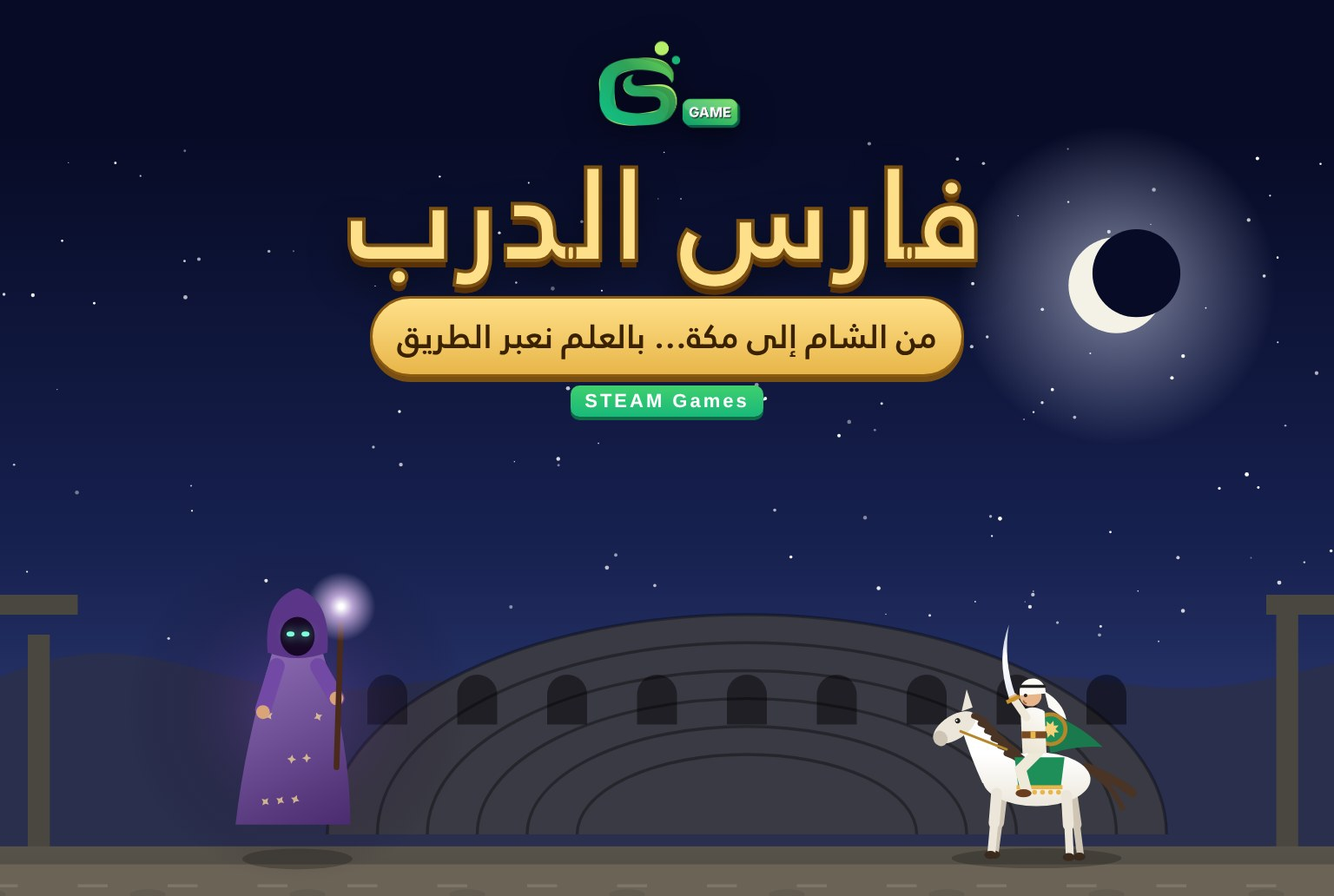
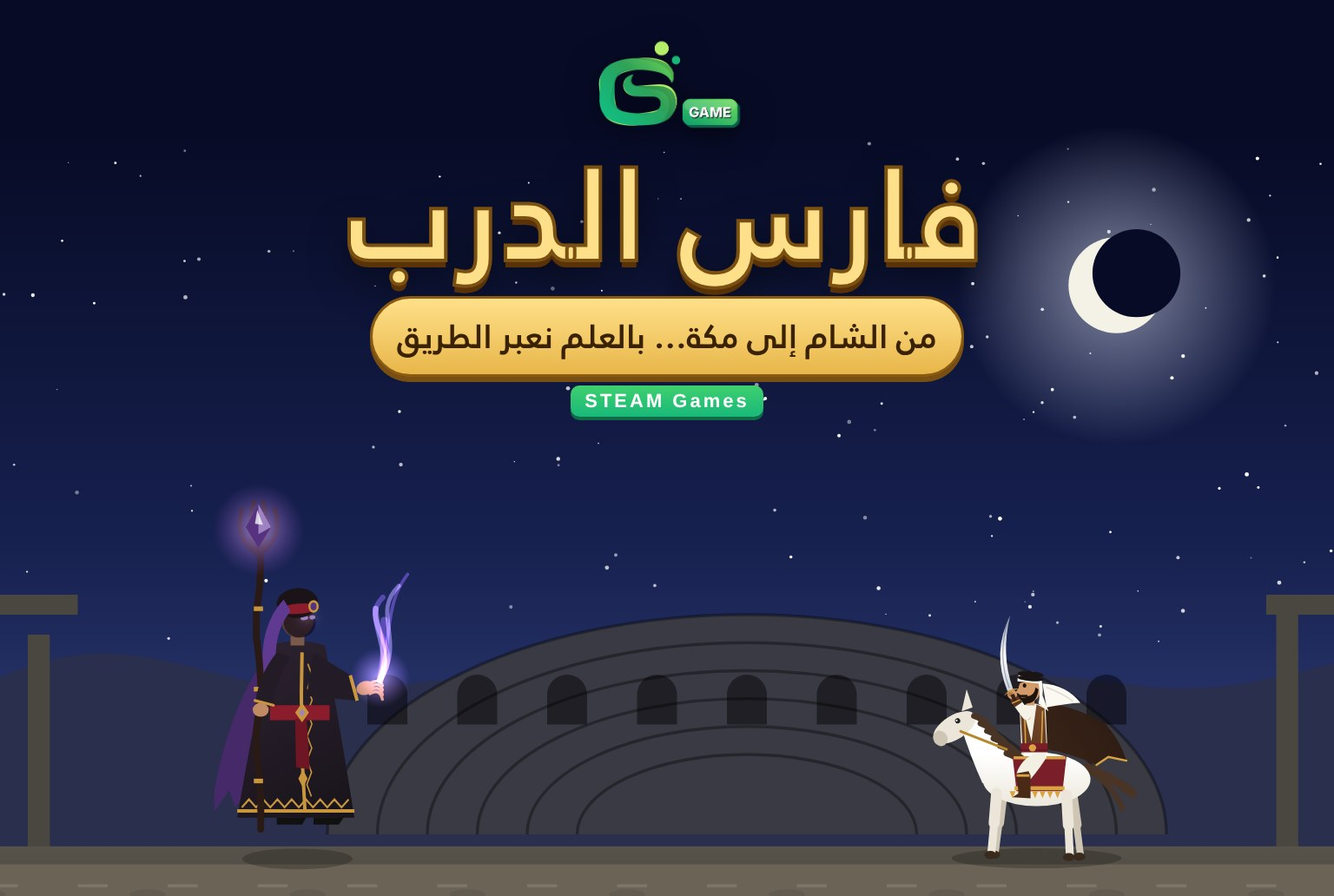
Redesign Knight of the Path characters closer to the reference artwork
- Knight: white thobe, brown leather vest with gold trim and brooch,
  flowing dark cape, maroon sash, white shemagh with black agal, short
  beard, leather bracer and a gold-guarded scimitar; maroon saddle cloth.
- Elder, scholar, merchant and Bedouin share a new bisht-wearing figure
  with gold-trimmed edges, beard, headwear variants, an open-palm
  gesture and a cane, book, scale or staff.
- Sorcerers: black robe with gold zig-zag borders, crimson sash with a
  gem pendant, coloured cape lining, jewelled turban over a shadowed
  face with glowing eyes, twisted staff with a glowing crystal in thorny
  prongs, and animated magic smoke from the casting hand.
- Cover image regenerated with the new characters.

Claude-Session: https://claude.ai/code/session_01FAZbWhTQXVqNkMx2ctwh7t

Changed region(s): [[0.1562, 0.5581, 0.3125, 0.9302], [0.75, 0.7132, 0.8438, 0.8992]]

diff --git a/steam-games/knight-path/art.js b/steam-games/knight-path/art.js
@@ -389,56 +389,86 @@
     // الأرجل القريبة
     leg(g, -30, -58 + bob, la(0, 0.6) - 0.1, Math.abs(la(0.6, 0.9)), 30, 30, 11, 8, horse);
     leg(g, 40, -60 + bob, la(Math.PI + 0.5, 0.7) + 0.1, -Math.abs(la(Math.PI + 1.1, 0.9)) * -1, 30, 30, 11, 8, horse);
-    // غطاء السرج
-    var cloak = o.cloak || '#1f8f5a';
-    g.fillStyle = cloak; g.beginPath(); g.moveTo(-28, -96 + bob); g.lineTo(22, -96 + bob); g.lineTo(18, -64 + bob); g.lineTo(-24, -64 + bob); g.fill();
-    g.fillStyle = '#e8b64a'; g.fillRect(-26, -68 + bob, 46, 4);
-    for (var f = 0; f < 6; f++) { g.beginPath(); g.arc(-22 + f * 8, -61 + bob, 2.4, 0, TAU); g.fill(); }
+    // غطاء السرج (عنابي بحواف ذهبية)
+    var cloak = o.cloak || '#7a1f2a';
+    g.fillStyle = cloak; g.beginPath(); g.moveTo(-30, -97 + bob); g.lineTo(24, -97 + bob); g.lineTo(20, -62 + bob); g.lineTo(-26, -62 + bob); g.fill();
+    g.fillStyle = '#d9a441'; g.fillRect(-28, -67 + bob, 50, 4); g.fillRect(-29, -97 + bob, 52, 3);
+    for (var f = 0; f < 7; f++) { g.beginPath(); g.moveTo(-24 + f * 7.5, -62 + bob); g.lineTo(-21 + f * 7.5, -55 + bob); g.lineTo(-18 + f * 7.5, -62 + bob); g.fill(); }
     // ======== الفارس ========
     var by = bob;
     var swing = o.swing || 0;
-    // العباءة الطائرة
-    var wave = Math.sin(t * 8) * 6 * (0.4 + gal);
-    g.fillStyle = shade(cloak, -0.15);
-    g.beginPath(); g.moveTo(-6, -142 + by); g.quadraticCurveTo(-40, -130 + by + wave, -66 - gal * 18, -104 + by + wave * 1.4);
-    g.quadraticCurveTo(-40, -108 + by, -14, -100 + by); g.fill();
-    // الساق
-    g.strokeStyle = '#efe9da'; g.lineWidth = 11; g.lineCap = 'round';
-    g.beginPath(); g.moveTo(-2, -102 + by); g.lineTo(16, -84 + by); g.lineTo(10, -62 + by); g.stroke();
-    g.fillStyle = '#6a3e1e'; g.beginPath(); g.ellipse(13, -60 + by, 8, 4, 0, 0, TAU); g.fill();
-    // الدرع الدائري خلف الظهر
-    g.save(); g.translate(-14, -124 + by);
-    g.fillStyle = '#b5862a'; g.beginPath(); g.arc(0, 0, 17, 0, TAU); g.fill();
-    g.fillStyle = cloak; g.beginPath(); g.arc(0, 0, 13, 0, TAU); g.fill();
-    starShape(g, 0, 0, 9, 5, 8, '#f3d27a', t * 0.2);
-    g.restore();
-    // الجذع
-    var tg = g.createLinearGradient(-10, -150, 14, -100);
-    tg.addColorStop(0, '#ffffff'); tg.addColorStop(1, o.robe || '#e9e2cf');
-    g.fillStyle = tg;
-    g.beginPath(); g.moveTo(-10, -100 + by); g.lineTo(-8, -142 + by); g.quadraticCurveTo(4, -150 + by, 16, -142 + by); g.lineTo(14, -100 + by); g.fill();
-    g.fillStyle = '#7a4a22'; g.fillRect(-10, -122 + by, 25, 7);
-    g.fillStyle = '#e8b64a'; g.fillRect(1, -122 + by, 5, 7);
-    // الرأس واللثام
-    g.fillStyle = '#e8b48a'; g.beginPath(); g.arc(6, -158 + by, 11, 0, TAU); g.fill();
-    g.fillStyle = '#fbfaf5';
-    g.beginPath(); g.arc(4, -162 + by, 13, Math.PI * 0.95, Math.PI * 2.1); g.fill();
-    g.beginPath(); g.moveTo(-8, -162 + by); g.quadraticCurveTo(-26 - gal * 10, -150 + by + wave, -30 - gal * 16, -132 + by + wave); g.lineTo(-12, -146 + by); g.fill();
-    g.strokeStyle = '#222'; g.lineWidth = 3; g.beginPath(); g.moveTo(-8, -167 + by); g.lineTo(18, -167 + by); g.stroke();
-    g.fillStyle = '#222'; g.beginPath(); g.arc(11, -158 + by, 1.8, 0, TAU); g.fill();
-    g.strokeStyle = '#a0603a'; g.lineWidth = 1.5; g.beginPath(); g.arc(10, -153 + by, 3, 0.2, 1.4); g.stroke();
-    // الذراع والسيف
+    var wave = Math.sin(t * 7) * 6 * (0.4 + gal);
+    var cape = o.cape || '#3a2418';
+    var skin = '#d39a6a', skinD = '#b27a4e';
+    var leather = '#5a3420', gold = '#d9a441';
+    // العباءة الداكنة الطائرة
+    var cg = g.createLinearGradient(-90, -150, 0, -90);
+    cg.addColorStop(0, shade(cape, -0.25)); cg.addColorStop(1, cape);
+    g.fillStyle = cg;
+    g.beginPath(); g.moveTo(-2, -150 + by);
+    g.quadraticCurveTo(-36, -150 + by + wave * 0.4, -70 - gal * 22, -128 + by + wave);
+    g.quadraticCurveTo(-84 - gal * 26, -112 + by + wave * 1.3, -90 - gal * 30, -92 + by + wave * 1.6);
+    g.lineTo(-72 - gal * 20, -96 + by + wave); g.lineTo(-60 - gal * 14, -88 + by + wave * 0.8);
+    g.quadraticCurveTo(-34, -100 + by, -10, -104 + by); g.closePath(); g.fill();
+    g.strokeStyle = gold; g.lineWidth = 2;
+    g.beginPath(); g.moveTo(-90 - gal * 30, -92 + by + wave * 1.6); g.lineTo(-72 - gal * 20, -96 + by + wave); g.lineTo(-60 - gal * 14, -88 + by + wave * 0.8); g.stroke();
+    // الساق: ثوب أبيض متدلٍّ وجزمة جلدية
+    g.fillStyle = '#f4efe3';
+    g.beginPath(); g.moveTo(-8, -104 + by); g.quadraticCurveTo(14, -98 + by, 20, -80 + by); g.lineTo(6, -74 + by); g.quadraticCurveTo(-4, -86 + by, -10, -96 + by); g.fill();
+    g.fillStyle = '#4a2a16';
+    g.beginPath(); g.moveTo(8, -82 + by); g.lineTo(20, -80 + by); g.lineTo(18, -60 + by); g.lineTo(24, -56 + by); g.lineTo(6, -55 + by); g.lineTo(6, -78 + by); g.fill();
+    g.fillStyle = gold; g.fillRect(7, -79 + by, 13, 2.5);
+    // الجذع: قميص أبيض وصدرية جلدية بزخارف ذهبية
+    g.fillStyle = '#f6f2e8';
+    g.beginPath(); g.moveTo(-11, -100 + by); g.lineTo(-9, -146 + by); g.quadraticCurveTo(4, -154 + by, 17, -146 + by); g.lineTo(15, -100 + by); g.fill();
+    var vg = g.createLinearGradient(-10, -146, 16, -104);
+    vg.addColorStop(0, '#7a4a2a'); vg.addColorStop(1, leather);
+    g.fillStyle = vg;
+    g.beginPath(); g.moveTo(-10, -106 + by); g.lineTo(-8, -145 + by); g.lineTo(0, -149 + by); g.lineTo(5, -112 + by); g.lineTo(14, -146 + by); g.lineTo(16, -140 + by); g.lineTo(14, -106 + by); g.fill();
+    g.strokeStyle = gold; g.lineWidth = 1.4;
+    g.beginPath(); g.moveTo(-6, -142 + by); g.lineTo(-5, -110 + by); g.moveTo(12, -140 + by); g.lineTo(11, -110 + by); g.stroke();
+    g.fillStyle = gold; g.beginPath(); g.arc(9, -137 + by, 3.4, 0, TAU); g.fill();
+    g.fillStyle = '#7a4a10'; g.beginPath(); g.arc(9, -137 + by, 1.4, 0, TAU); g.fill();
+    // الحزام العنابي
+    g.fillStyle = '#7a1f2a'; g.fillRect(-11, -110 + by, 27, 9);
+    g.fillStyle = 'rgba(0,0,0,.18)'; g.fillRect(-11, -104 + by, 27, 2);
+    g.fillStyle = gold; g.beginPath(); g.arc(4, -105.5 + by, 3.6, 0, TAU); g.fill();
+    // الرأس: وجه بلحية قصيرة، شماغ أبيض وعقال أسود
+    g.fillStyle = skin; g.fillRect(2, -156 + by, 8, 8); // الرقبة
+    g.beginPath(); g.ellipse(7, -164 + by, 11, 12.5, 0, 0, TAU); g.fill();
+    g.beginPath(); g.moveTo(16, -168 + by); g.lineTo(21, -161 + by); g.lineTo(16, -159 + by); g.fill(); // الأنف
+    g.fillStyle = '#1e140c';
+    g.beginPath(); g.moveTo(-2, -164 + by); g.quadraticCurveTo(0, -150 + by, 9, -150 + by); g.quadraticCurveTo(17, -150 + by, 18, -156 + by); g.quadraticCurveTo(12, -155 + by, 9, -157 + by); g.quadraticCurveTo(2, -158 + by, 1, -166 + by); g.fill();
+    g.fillRect(9, -158.5 + by, 9, 2.2); // الشارب
+    g.fillStyle = '#1e140c'; g.beginPath(); g.ellipse(12, -168 + by, 1.8, 2.2, 0, 0, TAU); g.fill();
+    g.strokeStyle = '#1e140c'; g.lineWidth = 2; g.beginPath(); g.moveTo(8, -173 + by); g.lineTo(16, -171.5 + by); g.stroke();
+    // الشماغ: يغطي الرأس وينسدل خلف الكتفين ويطير بالريح
+    g.fillStyle = '#fbf9f2';
+    g.beginPath(); g.moveTo(-6, -158 + by); g.quadraticCurveTo(-8, -184 + by, 8, -182 + by); g.quadraticCurveTo(20, -182 + by, 19, -172 + by);
+    g.lineTo(-2, -170 + by); g.quadraticCurveTo(-4, -160 + by, -2, -150 + by); g.lineTo(-12, -142 + by); g.closePath(); g.fill();
+    g.beginPath(); g.moveTo(-6, -170 + by); g.quadraticCurveTo(-30 - gal * 12, -168 + by + wave, -44 - gal * 20, -150 + by + wave * 1.3);
+    g.quadraticCurveTo(-30, -150 + by, -10, -146 + by); g.fill();
+    g.strokeStyle = 'rgba(0,0,0,.12)'; g.lineWidth = 1.2;
+    g.beginPath(); g.moveTo(-10, -166 + by); g.quadraticCurveTo(-26, -160 + by + wave * 0.6, -36 - gal * 14, -152 + by + wave); g.stroke();
+    g.fillStyle = '#1a1414';
+    g.beginPath(); g.ellipse(6, -179 + by, 13, 3.2, -0.08, 0, TAU); g.fill();
+    g.beginPath(); g.ellipse(6, -175 + by, 13, 2.8, -0.08, 0, TAU); g.fill();
+    // الذراع: كمّ أبيض وسوار جلدي، والسيف المنحني بواقٍ ذهبي
     var sa = o.sword === 'swing' ? lerp(-2.2, 0.9, easeOut(swing)) : (o.sword === 'down' ? 0.6 : -1.1 + Math.sin(t * 2) * 0.05);
-    g.save(); g.translate(10, -136 + by); g.rotate(sa);
-    g.strokeStyle = '#efe9da'; g.lineWidth = 8; g.beginPath(); g.moveTo(0, 0); g.lineTo(22, 4); g.stroke();
-    g.fillStyle = '#e8b48a'; g.beginPath(); g.arc(24, 4, 4.5, 0, TAU); g.fill();
-    g.fillStyle = '#c9952a'; g.fillRect(20, -2, 4, 14); // واقي المقبض
-    // نصل منحنٍ
-    var blade = g.createLinearGradient(26, 0, 90, -10);
-    blade.addColorStop(0, '#e9eef5'); blade.addColorStop(0.6, '#ffffff'); blade.addColorStop(1, '#b8c4d4');
+    g.save(); g.translate(10, -138 + by); g.rotate(sa);
+    g.strokeStyle = '#f6f2e8'; g.lineWidth = 9; g.lineCap = 'round'; g.beginPath(); g.moveTo(0, 0); g.lineTo(14, 3); g.stroke();
+    g.strokeStyle = leather; g.lineWidth = 9; g.lineCap = 'butt'; g.beginPath(); g.moveTo(13, 3); g.lineTo(22, 4.5); g.stroke();
+    g.strokeStyle = gold; g.lineWidth = 1.2; g.beginPath(); g.moveTo(17, -0.5); g.lineTo(17, 8.5); g.stroke();
+    g.fillStyle = skin; g.beginPath(); g.arc(25, 4.5, 4.8, 0, TAU); g.fill();
+    g.fillStyle = skinD; g.beginPath(); g.arc(26, 6, 2.4, 0, TAU); g.fill();
+    g.fillStyle = '#3a2418'; g.fillRect(18, 2.5, 7, 4); // المقبض
+    g.fillStyle = gold; g.beginPath(); g.moveTo(27, -5); g.lineTo(31, 4); g.lineTo(27, 13); g.lineTo(29, 4); g.fill(); // الواقي
+    var blade = g.createLinearGradient(30, -4, 96, -20);
+    blade.addColorStop(0, '#cfd6e0'); blade.addColorStop(0.5, '#ffffff'); blade.addColorStop(1, '#9aa6b8');
     g.fillStyle = blade;
-    g.beginPath(); g.moveTo(26, 1); g.quadraticCurveTo(62, -2, 92, -22); g.quadraticCurveTo(66, 4, 26, 8); g.fill();
-    if (o.glow) { g.strokeStyle = 'rgba(255,230,140,' + o.glow + ')'; g.lineWidth = 4; g.beginPath(); g.moveTo(28, 4); g.quadraticCurveTo(62, 1, 92, -22); g.stroke(); }
+    g.beginPath(); g.moveTo(30, 1.5); g.quadraticCurveTo(66, -1, 98, -26); g.quadraticCurveTo(72, 6, 30, 7.5); g.fill();
+    g.strokeStyle = 'rgba(80,90,110,.5)'; g.lineWidth = 1; g.beginPath(); g.moveTo(32, 4.5); g.quadraticCurveTo(66, 3, 96, -23); g.stroke();
+    if (o.glow) { g.strokeStyle = 'rgba(255,230,140,' + o.glow + ')'; g.lineWidth = 4; g.beginPath(); g.moveTo(32, 4); g.quadraticCurveTo(66, 1, 98, -26); g.stroke(); }
     g.restore();
     g.restore();
   }
@@ -467,6 +497,8 @@
       case 'owl': owl(g, t); break;
       case 'stone': stoneGolem(g, t, col); break;
       case 'sandlord': sandLord(g, t, col); break;
+      case 'elder': case 'scholar': case 'merchant': case 'bedouin': arabMan(g, t, look, col, o); break;
+      case 'sorcerer': case 'sorceress': case 'archsorcerer': sorcerer(g, t, look, col, o); break;
       default: robed(g, t, look, col, o);
     }
     g.restore();
@@ -551,6 +583,229 @@
     g.restore();
   }
 
+  // ------------------------------------------------------------------
+  // رجل عربي بالبشت (الشيخ الحكيم، التاجر، البدوي، العالِم)
+  // ------------------------------------------------------------------
+  var MEN = {
+    elder: { bisht: '#5a3420', beard: '#ecebe6', long: 1, head: 'shemagh', hand: 'cane', brow: '#e8e6e0' },
+    scholar: { bisht: '#2f5a4a', beard: '#ecebe6', long: 0.8, head: 'turban', hand: 'book', brow: '#e8e6e0' },
+    merchant: { bisht: '#8a3e16', beard: '#2a1a10', long: 0.55, head: 'turban', hand: 'scale', brow: '#2a1a10' },
+    bedouin: { bisht: '#a8865a', beard: '#1a120a', long: 0.4, head: 'redShemagh', hand: 'staff', brow: '#1a120a' },
+  };
+  function arabMan(g, t, look, col, o) {
+    var m = MEN[look];
+    var bisht = col && col !== '#ffffff' ? col : m.bisht;
+    var trim = '#c9963a', thobe = '#f3eee2', skin = '#d9a074', skinD = '#b8794e';
+    var breathe = Math.sin(t * 1.6) * 1.2;
+    var gest = Math.sin(t * 1.3) * 4 + (o.cast || 0) * -14;
+    g.save(); g.translate(0, breathe * 0.3);
+    // الحذاء
+    g.fillStyle = '#3a2a20';
+    g.beginPath(); g.ellipse(-10, -3, 16, 5, 0, 0, TAU); g.fill(); g.beginPath(); g.ellipse(18, -3, 15, 5, 0, 0, TAU); g.fill();
+    // البشت (العباءة) من الخلف
+    var bg = g.createLinearGradient(-50, -150, 40, 0);
+    bg.addColorStop(0, shade(bisht, 0.12)); bg.addColorStop(1, shade(bisht, -0.3));
+    g.fillStyle = bg;
+    g.beginPath(); g.moveTo(-26, -156); g.quadraticCurveTo(-46, -90, -54, -6); g.lineTo(42, -6); g.quadraticCurveTo(36, -90, 22, -156); g.quadraticCurveTo(-2, -164, -26, -156); g.fill();
+    // طيّات البشت
+    g.strokeStyle = 'rgba(0,0,0,.18)'; g.lineWidth = 2;
+    [[-34, -120, -42, -10], [-20, -130, -24, -10], [28, -110, 34, -10]].forEach(function (l) { g.beginPath(); g.moveTo(l[0], l[1]); g.quadraticCurveTo(l[0] - 4, (l[1] + l[3]) / 2, l[2], l[3]); g.stroke(); });
+    // الثوب الأبيض من الأمام مع حواف البشت الذهبية
+    g.fillStyle = thobe;
+    g.beginPath(); g.moveTo(-6, -152); g.lineTo(-14, -6); g.lineTo(12, -6); g.lineTo(10, -152); g.fill();
+    g.strokeStyle = trim; g.lineWidth = 4;
+    g.beginPath(); g.moveTo(-7, -150); g.lineTo(-16, -6); g.moveTo(11, -150); g.lineTo(14, -6); g.stroke();
+    g.strokeStyle = 'rgba(255,230,160,.6)'; g.lineWidth = 1;
+    g.beginPath(); g.moveTo(-9, -150); g.lineTo(-18, -6); g.stroke();
+    // الذراع البعيدة ممدودة بإشارة اليد
+    g.save(); g.translate(18, -138);
+    g.fillStyle = shade(bisht, -0.08);
+    g.beginPath(); g.moveTo(-6, -6); g.lineTo(34, 10 + gest * 0.4); g.lineTo(40, 30 + gest * 0.5); g.lineTo(6, 26); g.fill();
+    g.fillStyle = trim; g.beginPath(); g.moveTo(34, 10 + gest * 0.4); g.lineTo(40, 30 + gest * 0.5); g.lineTo(37, 30 + gest * 0.5); g.lineTo(31, 11 + gest * 0.4); g.fill();
+    g.fillStyle = thobe; g.fillRect(38, 14 + gest * 0.45, 8, 12);
+    g.fillStyle = skin;
+    var hx = 52, hy = 18 + gest * 0.5;
+    g.beginPath(); g.ellipse(hx, hy, 11, 5.5, -0.25, 0, TAU); g.fill();
+    for (var fi = 0; fi < 4; fi++) { g.beginPath(); g.ellipse(hx + 9 + fi * 0.5, hy - 5 + fi * 2.6, 6, 2.1, -0.4 + fi * 0.1, 0, TAU); g.fill(); }
+    g.beginPath(); g.ellipse(hx - 3, hy - 6, 2.5, 5, 0.6, 0, TAU); g.fill();
+    g.restore();
+    // الرأس
+    g.fillStyle = skin; g.fillRect(-2, -166, 12, 12);
+    g.beginPath(); g.ellipse(4, -178, 14, 16, 0, 0, TAU); g.fill();
+    g.beginPath(); g.moveTo(15, -184); g.quadraticCurveTo(24, -176, 17, -172); g.fill(); // الأنف
+    g.fillStyle = skinD; g.beginPath(); g.arc(-4, -177, 3, 0, TAU); g.fill(); // الأذن
+    g.fillStyle = '#1e140c'; g.beginPath(); g.ellipse(10, -182, 2, 2.6, 0, 0, TAU); g.fill();
+    g.strokeStyle = m.brow; g.lineWidth = 3; g.lineCap = 'round'; g.beginPath(); g.moveTo(5, -188); g.quadraticCurveTo(10, -191, 15, -188); g.stroke();
+    // اللحية
+    var L = 30 + m.long * 52;
+    g.fillStyle = m.beard;
+    g.beginPath(); g.moveTo(-6, -180); g.quadraticCurveTo(-10, -160, -4, -170 + L * 0.6);
+    g.quadraticCurveTo(4, -170 + L, 10, -170 + L * 0.95); g.quadraticCurveTo(18, -170 + L * 0.6, 18, -168); g.quadraticCurveTo(10, -170, 4, -168); g.quadraticCurveTo(-2, -172, -6, -180); g.fill();
+    g.strokeStyle = 'rgba(0,0,0,.12)'; g.lineWidth = 1;
+    for (var bl = 0; bl < 4; bl++) { g.beginPath(); g.moveTo(-2 + bl * 5, -164); g.quadraticCurveTo(0 + bl * 5, -170 + L * 0.6, 4 + bl * 3, -172 + L * 0.9); g.stroke(); }
+    g.fillStyle = m.beard; g.beginPath(); g.ellipse(14, -170, 7, 3, -0.2, 0, TAU); g.fill(); // الشارب
+    // غطاء الرأس
+    if (m.head === 'turban') {
+      var tc = look === 'merchant' ? '#efe2c4' : '#ffffff';
+      g.fillStyle = tc; g.beginPath(); g.ellipse(2, -192, 19, 12, -0.1, 0, TAU); g.fill();
+      g.strokeStyle = 'rgba(0,0,0,.12)'; g.lineWidth = 2;
+      for (var w = 0; w < 3; w++) { g.beginPath(); g.ellipse(2, -192 + w * 2, 18 - w * 4, 9 - w * 2, -0.25, 0.1, Math.PI); g.stroke(); }
+      if (look === 'scholar' && col) { g.fillStyle = col; g.fillRect(-16, -188, 34, 3); }
+    } else {
+      var red = m.head === 'redShemagh';
+      g.fillStyle = '#fbf9f2';
+      g.beginPath(); g.moveTo(-12, -172); g.quadraticCurveTo(-14, -202, 4, -200); g.quadraticCurveTo(20, -200, 18, -188); g.lineTo(-2, -186);
+      g.quadraticCurveTo(-8, -168, -6, -150); g.quadraticCurveTo(-26, -140, -32, -112); g.quadraticCurveTo(-34, -146, -12, -172); g.fill();
+      g.strokeStyle = 'rgba(0,0,0,.1)'; g.lineWidth = 1.5;
+      g.beginPath(); g.moveTo(-10, -180); g.quadraticCurveTo(-22, -150, -28, -120); g.stroke();
+      if (red) { g.fillStyle = '#c0392b'; for (var rx = 0; rx < 5; rx++) for (var ry = 0; ry < 3; ry++) g.fillRect(-10 + rx * 5.5, -198 + ry * 5, 2.4, 2.4); }
+      g.fillStyle = '#1a1414';
+      g.beginPath(); g.ellipse(3, -197, 15, 3.6, -0.08, 0, TAU); g.fill();
+      g.beginPath(); g.ellipse(3, -192.5, 15, 3.2, -0.08, 0, TAU); g.fill();
+    }
+    // الذراع القريبة وما تحمله
+    g.fillStyle = shade(bisht, 0.05);
+    g.beginPath(); g.moveTo(-20, -150); g.quadraticCurveTo(-30, -120, -18, -100); g.lineTo(2, -98); g.quadraticCurveTo(-4, -128, 4, -148); g.fill();
+    g.fillStyle = trim; g.fillRect(-18, -103, 21, 4);
+    g.fillStyle = thobe; g.fillRect(-14, -100, 13, 5);
+    var px = -6, py = -92;
+    if (m.hand === 'cane' || m.hand === 'staff') {
+      g.strokeStyle = m.hand === 'cane' ? '#6a3e1e' : '#7a5230'; g.lineWidth = 6; g.lineCap = 'round';
+      g.beginPath(); g.moveTo(px - 1, m.hand === 'cane' ? py - 2 : py - 70);
+      for (var k = 1; k <= 8; k++) g.lineTo(px + Math.sin(k * 1.7) * 1.6, py + k * 11.5);
+      g.stroke();
+      if (m.hand === 'staff') { g.beginPath(); g.arc(px - 4, py - 72, 6, Math.PI * 0.2, Math.PI * 1.4); g.stroke(); }
+    } else if (m.hand === 'book') {
+      g.fillStyle = '#7a4a1a'; g.fillRect(px - 16, py - 10, 22, 18); g.fillStyle = '#f2e6c4'; g.fillRect(px - 14, py - 8, 18, 14);
+      g.strokeStyle = '#c9963a'; g.lineWidth = 1; g.beginPath(); g.moveTo(px - 5, py - 8); g.lineTo(px - 5, py + 6); g.stroke();
+    } else if (m.hand === 'scale') {
+      g.strokeStyle = '#c9952a'; g.lineWidth = 2; g.beginPath(); g.moveTo(px, py); g.lineTo(px, py + 26); g.moveTo(px - 16, py + 26); g.lineTo(px + 16, py + 26); g.stroke();
+      g.fillStyle = '#c9952a'; g.beginPath(); g.arc(px - 16, py + 31, 7, 0, Math.PI); g.arc(px + 16, py + 31, 7, 0, Math.PI); g.fill();
+    }
+    g.fillStyle = skin; g.beginPath(); g.ellipse(px, py, 7, 6, 0, 0, TAU); g.fill();
+    g.fillStyle = skinD; g.beginPath(); g.ellipse(px + 3, py + 1, 3, 4, 0, 0, TAU); g.fill();
+    // هالة هادئة لشيخ الحكمة
+    if (look === 'elder') {
+      g.globalCompositeOperation = 'lighter';
+      var ha = g.createRadialGradient(4, -178, 10, 4, -178, 60);
+      ha.addColorStop(0, 'rgba(255,230,160,.18)'); ha.addColorStop(1, 'rgba(255,230,160,0)');
+      g.fillStyle = ha; g.beginPath(); g.arc(4, -178, 60, 0, TAU); g.fill();
+      g.globalCompositeOperation = 'source-over';
+    }
+    g.restore();
+  }
+
+  // ------------------------------------------------------------------
+  // الساحر: رداء أسود بحواف ذهبية، حزام قرمزي، عصا بلورية ودخان سحري
+  // ------------------------------------------------------------------
+  function sorcerer(g, t, look, col, o) {
+    var c = col || '#6b3fa0';
+    var arch = look === 'archsorcerer', lady = look === 'sorceress';
+    var magic = shade(c, 0.35), magicD = shade(c, -0.2);
+    var gold = '#c8963e', robe = '#18131a', crimson = '#8a1c2c';
+    var cast = o.cast || 0;
+    var sway = Math.sin(t * 1.8) * 3;
+    g.save(); if (arch) g.scale(1.18, 1.18);
+    // البطانة/الوشاح الملوّن خلف الساحر بحافة ممزّقة متموّجة
+    g.fillStyle = shade(c, -0.35);
+    g.beginPath(); g.moveTo(-18, -160);
+    g.quadraticCurveTo(-58, -110, -70 + sway, -30);
+    for (var r = 0; r < 6; r++) g.lineTo(-70 + sway + r * 9 + (r % 2 ? 4 : 0), -18 + (r % 2 ? -10 : 6) + Math.sin(t * 4 + r) * 3);
+    g.lineTo(-10, -40); g.closePath(); g.fill();
+    // الحذاء المدبّب
+    g.fillStyle = '#111';
+    g.beginPath(); g.moveTo(-18, -6); g.lineTo(2, -6); g.lineTo(10, -10); g.lineTo(4, 0); g.lineTo(-18, 0); g.fill();
+    g.beginPath(); g.moveTo(14, -6); g.lineTo(34, -6); g.lineTo(44, -12); g.lineTo(36, 0); g.lineTo(14, 0); g.fill();
+    // الرداء الأسود المتّسع
+    var rg = g.createLinearGradient(-40, -160, 40, 0);
+    rg.addColorStop(0, '#2c2230'); rg.addColorStop(1, robe);
+    g.fillStyle = rg;
+    g.beginPath(); g.moveTo(-24, -156); g.quadraticCurveTo(-40, -80, -50 + sway, -6); g.lineTo(52 + sway, -6); g.quadraticCurveTo(38, -80, 24, -156); g.quadraticCurveTo(0, -164, -24, -156); g.fill();
+    // حواف ذهبية مزخرفة (الذيل وفتحة الأمام)
+    g.strokeStyle = gold; g.lineWidth = 3;
+    g.beginPath(); g.moveTo(-50 + sway, -12); g.lineTo(52 + sway, -12); g.stroke();
+    g.lineWidth = 1.6; g.beginPath();
+    for (var z = 0; z < 16; z++) { var zx = -46 + sway + z * 6.2; g.lineTo(zx, z % 2 ? -22 : -15); }
+    g.stroke();
+    g.strokeStyle = gold; g.lineWidth = 3;
+    g.beginPath(); g.moveTo(4, -150); g.quadraticCurveTo(2, -80, 8 + sway * 0.6, -12); g.stroke();
+    g.lineWidth = 1.2; g.beginPath();
+    for (var z2 = 0; z2 < 12; z2++) { var zy = -140 + z2 * 10.5; g.lineTo(9 + (z2 % 2 ? 4 : 0) + sway * 0.4 * (z2 / 12), zy); }
+    g.stroke();
+    // الحزام القرمزي ودلّاية ماسية
+    g.fillStyle = crimson; g.beginPath(); g.moveTo(-24, -104); g.lineTo(28, -104); g.lineTo(28, -91); g.lineTo(-24, -91); g.fill();
+    g.fillStyle = shade(crimson, -0.2); g.beginPath(); g.moveTo(-2, -92); g.lineTo(8, -92); g.lineTo(12 + sway * 0.5, -48); g.lineTo(0 + sway * 0.5, -50); g.fill();
+    g.fillStyle = gold; g.beginPath(); g.moveTo(4, -106); g.lineTo(10, -97.5); g.lineTo(4, -89); g.lineTo(-2, -97.5); g.fill();
+    g.fillStyle = magic; g.beginPath(); g.moveTo(4, -101); g.lineTo(6.5, -97.5); g.lineTo(4, -94); g.lineTo(1.5, -97.5); g.fill();
+    g.fillStyle = gold; g.beginPath(); g.moveTo(6 + sway * 0.5, -48); g.lineTo(10 + sway * 0.5, -40); g.lineTo(6 + sway * 0.5, -32); g.lineTo(2 + sway * 0.5, -40); g.fill();
+    // الذراع البعيدة تمدّ اليد بالسحر نحو الفارس
+    var ax = 50 + cast * 16, ay = -122 - cast * 24;
+    g.fillStyle = '#231b26';
+    g.beginPath(); g.moveTo(14, -150); g.lineTo(ax - 4, ay - 8); g.lineTo(ax + 2, ay + 14); g.lineTo(8, -112); g.fill();
+    g.strokeStyle = gold; g.lineWidth = 3; g.beginPath(); g.moveTo(ax - 4, ay - 8); g.lineTo(ax + 2, ay + 14); g.stroke();
+    g.fillStyle = '#c08a64';
+    g.beginPath(); g.ellipse(ax + 9, ay + 3, 8, 6, -0.3, 0, TAU); g.fill();
+    g.strokeStyle = '#c08a64'; g.lineWidth = 2.6; g.lineCap = 'round';
+    for (var cl = 0; cl < 4; cl++) { g.beginPath(); g.moveTo(ax + 13, ay - 1 + cl * 3); g.quadraticCurveTo(ax + 22, ay - 6 + cl * 3, ax + 24, ay + 1 + cl * 4); g.stroke(); }
+    // الدخان السحري المتلوّي
+    g.save(); g.globalCompositeOperation = 'lighter';
+    for (var sm = 0; sm < 5; sm++) {
+      var ph = t * 2 + sm * 1.3;
+      g.strokeStyle = hexA(sm % 2 ? magic : c, 0.55 + cast * 0.3);
+      g.lineWidth = 6 - sm * 0.8 + cast * 3; g.lineCap = 'round';
+      var sx = ax + 22, sy = ay - 4;
+      g.beginPath(); g.moveTo(sx, sy);
+      g.bezierCurveTo(sx + 14 + Math.sin(ph) * 10, sy - 18 - sm * 6, sx - 8 + Math.cos(ph * 1.3) * 12, sy - 34 - sm * 8, sx + 10 + Math.sin(ph * 0.8) * 14, sy - 52 - sm * 10 - cast * 20);
+      g.stroke();
+    }
+    var og = g.createRadialGradient(ax + 22, ay - 6, 2, ax + 22, ay - 6, 26 + cast * 20);
+    og.addColorStop(0, hexA(magic, 0.8)); og.addColorStop(1, hexA(c, 0));
+    g.fillStyle = og; g.beginPath(); g.arc(ax + 22, ay - 6, 26 + cast * 20, 0, TAU); g.fill();
+    g.restore();
+    // الرأس: عمامة داكنة بعصابة ملوّنة وجوهرة، ووجه في الظل بعينين متوهجتين
+    g.fillStyle = '#7a5a4a'; g.fillRect(-6, -168, 12, 12);
+    g.fillStyle = '#5a4038'; g.beginPath(); g.ellipse(0, -178, 14, 15, 0, 0, TAU); g.fill();
+    g.fillStyle = 'rgba(10,0,20,.55)'; g.beginPath(); g.ellipse(2, -176, 14, 13, 0, 0, TAU); g.fill();
+    var eye = arch ? '#ffcc4a' : magic;
+    g.fillStyle = eye; g.shadowColor = eye; g.shadowBlur = 12;
+    g.beginPath(); g.ellipse(6, -180, 3.4, 2, -0.15, 0, TAU); g.ellipse(13, -180.5, 2.6, 1.8, -0.15, 0, TAU); g.fill();
+    g.shadowBlur = 0;
+    // العمامة
+    g.fillStyle = '#1a1418'; g.beginPath(); g.ellipse(0, -193, 18, 13, -0.08, 0, TAU); g.fill();
+    g.fillStyle = crimson; g.beginPath(); g.ellipse(1, -188, 18, 4.5, -0.08, 0, TAU); g.fill();
+    g.fillStyle = gold; g.beginPath(); g.ellipse(14, -190, 4.5, 5.5, 0, 0, TAU); g.fill();
+    g.fillStyle = magicD; g.beginPath(); g.ellipse(14, -190, 2.6, 3.4, 0, 0, TAU); g.fill();
+    // ذيل العمامة الملوّن على الكتف
+    g.fillStyle = shade(c, -0.1);
+    g.beginPath(); g.moveTo(-12, -196); g.quadraticCurveTo(-34, -170 + sway, -30, -128 + sway); g.lineTo(-18, -134 + sway); g.quadraticCurveTo(-22, -166, -6, -186); g.fill();
+    if (lady) { g.fillStyle = hexA(magic, 0.7); g.beginPath(); g.moveTo(-4, -174); g.quadraticCurveTo(10, -168, 20, -174); g.lineTo(18, -162); g.quadraticCurveTo(8, -158, -2, -164); g.fill(); }
+    if (arch) { for (var sp = 0; sp < 5; sp++) starShape(g, -12 + sp * 6.5, -206 - (sp % 2) * 4, 4, 1.6, 4, gold, 0); }
+    // العصا الملتوية برأس شائك وبلّورة متوهجة
+    var stx = -34, sty = -100;
+    g.strokeStyle = '#2a1a16'; g.lineWidth = 6; g.lineCap = 'round';
+    g.beginPath(); g.moveTo(stx + 2, 4);
+    for (var sk = 1; sk <= 12; sk++) g.lineTo(stx + Math.sin(sk * 1.3) * 2.2, 4 - sk * 21);
+    g.stroke();
+    g.fillStyle = gold; [-40, -120, -190].forEach(function (yy) { g.fillRect(stx - 4, yy, 8, 4); });
+    var cy = -258 + Math.sin(t * 3) * 2;
+    // المخالب الشائكة خلف البلّورة
+    g.strokeStyle = '#2a1a16'; g.lineWidth = 4; g.lineCap = 'round';
+    [[-1, 0], [1, 0], [-0.5, 1], [0.5, 1]].forEach(function (d) { g.beginPath(); g.moveTo(stx, cy + 22); g.quadraticCurveTo(stx + d[0] * 22, cy + 8, stx + d[0] * (14 - d[1] * 6), cy - 18 - d[1] * 6); g.stroke(); });
+    var cg2 = g.createRadialGradient(stx, cy, 2, stx, cy, 40 + cast * 18);
+    cg2.addColorStop(0, hexA(magic, 0.9)); cg2.addColorStop(1, hexA(c, 0));
+    g.fillStyle = cg2; g.beginPath(); g.arc(stx, cy, 40 + cast * 18, 0, TAU); g.fill();
+    // البلّورة
+    g.fillStyle = magicD; g.beginPath(); g.moveTo(stx, cy - 22); g.lineTo(stx + 11, cy - 2); g.lineTo(stx, cy + 16); g.lineTo(stx - 11, cy - 2); g.fill();
+    g.fillStyle = magic; g.beginPath(); g.moveTo(stx, cy - 22); g.lineTo(stx + 11, cy - 2); g.lineTo(stx, cy + 4); g.fill();
+    g.fillStyle = 'rgba(255,255,255,.75)'; g.beginPath(); g.moveTo(stx - 1, cy - 17); g.lineTo(stx + 4, cy - 4); g.lineTo(stx - 3, cy - 5); g.fill();
+    // الذراع القريبة تمسك العصا
+    g.fillStyle = '#231b26';
+    g.beginPath(); g.moveTo(-18, -150); g.quadraticCurveTo(-34, -130, -36, -108); g.lineTo(-22, -104); g.quadraticCurveTo(-18, -128, -6, -146); g.fill();
+    g.strokeStyle = gold; g.lineWidth = 2.5; g.beginPath(); g.moveTo(-37, -108); g.lineTo(-21, -104); g.stroke();
+    g.fillStyle = '#c08a64'; g.beginPath(); g.ellipse(-32, -100, 7, 6, 0, 0, TAU); g.fill();
+    g.restore();
+  }
+
   function owl(g, t) {
     g.fillStyle = '#6a4a2a'; g.fillRect(-6, -90, 12, 90); g.fillRect(-40, -92, 80, 10);
     var blink = (Math.sin(t * 1.3) > 0.97) ? 0.15 : 1;
@@ -593,7 +848,7 @@
       g.fillStyle = hexA(shade(c, (i % 3) * 0.15), 0.7);
       g.beginPath(); g.arc(Math.cos(a) * r, -10 - i * 3 + Math.sin(a) * 4, 3, 0, TAU); g.fill();
     }
-    robed(g, t, 'sorcerer', c, {});
+    sorcerer(g, t, 'sorcerer', c, {});
   }
 
   function hexA(hex, a) {
